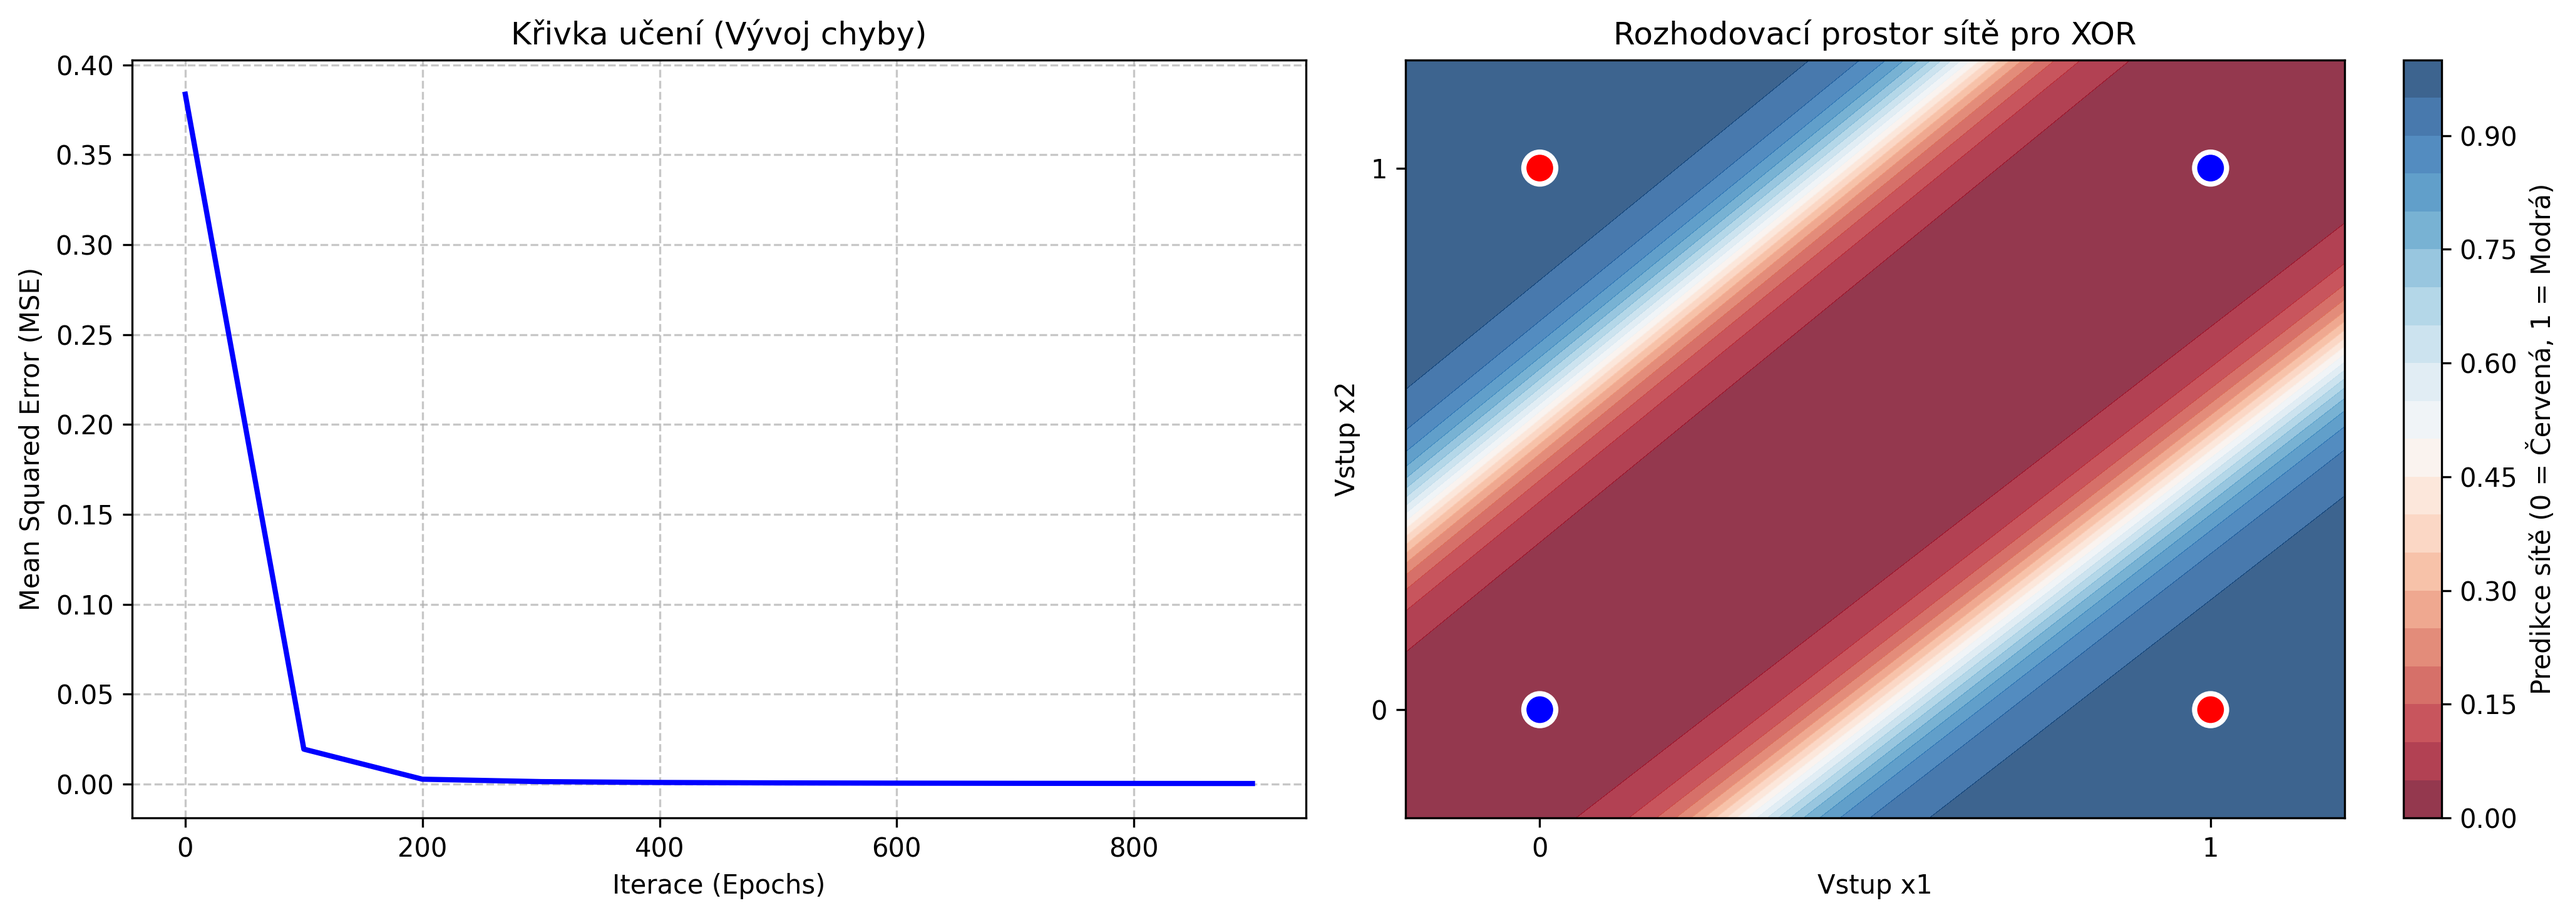
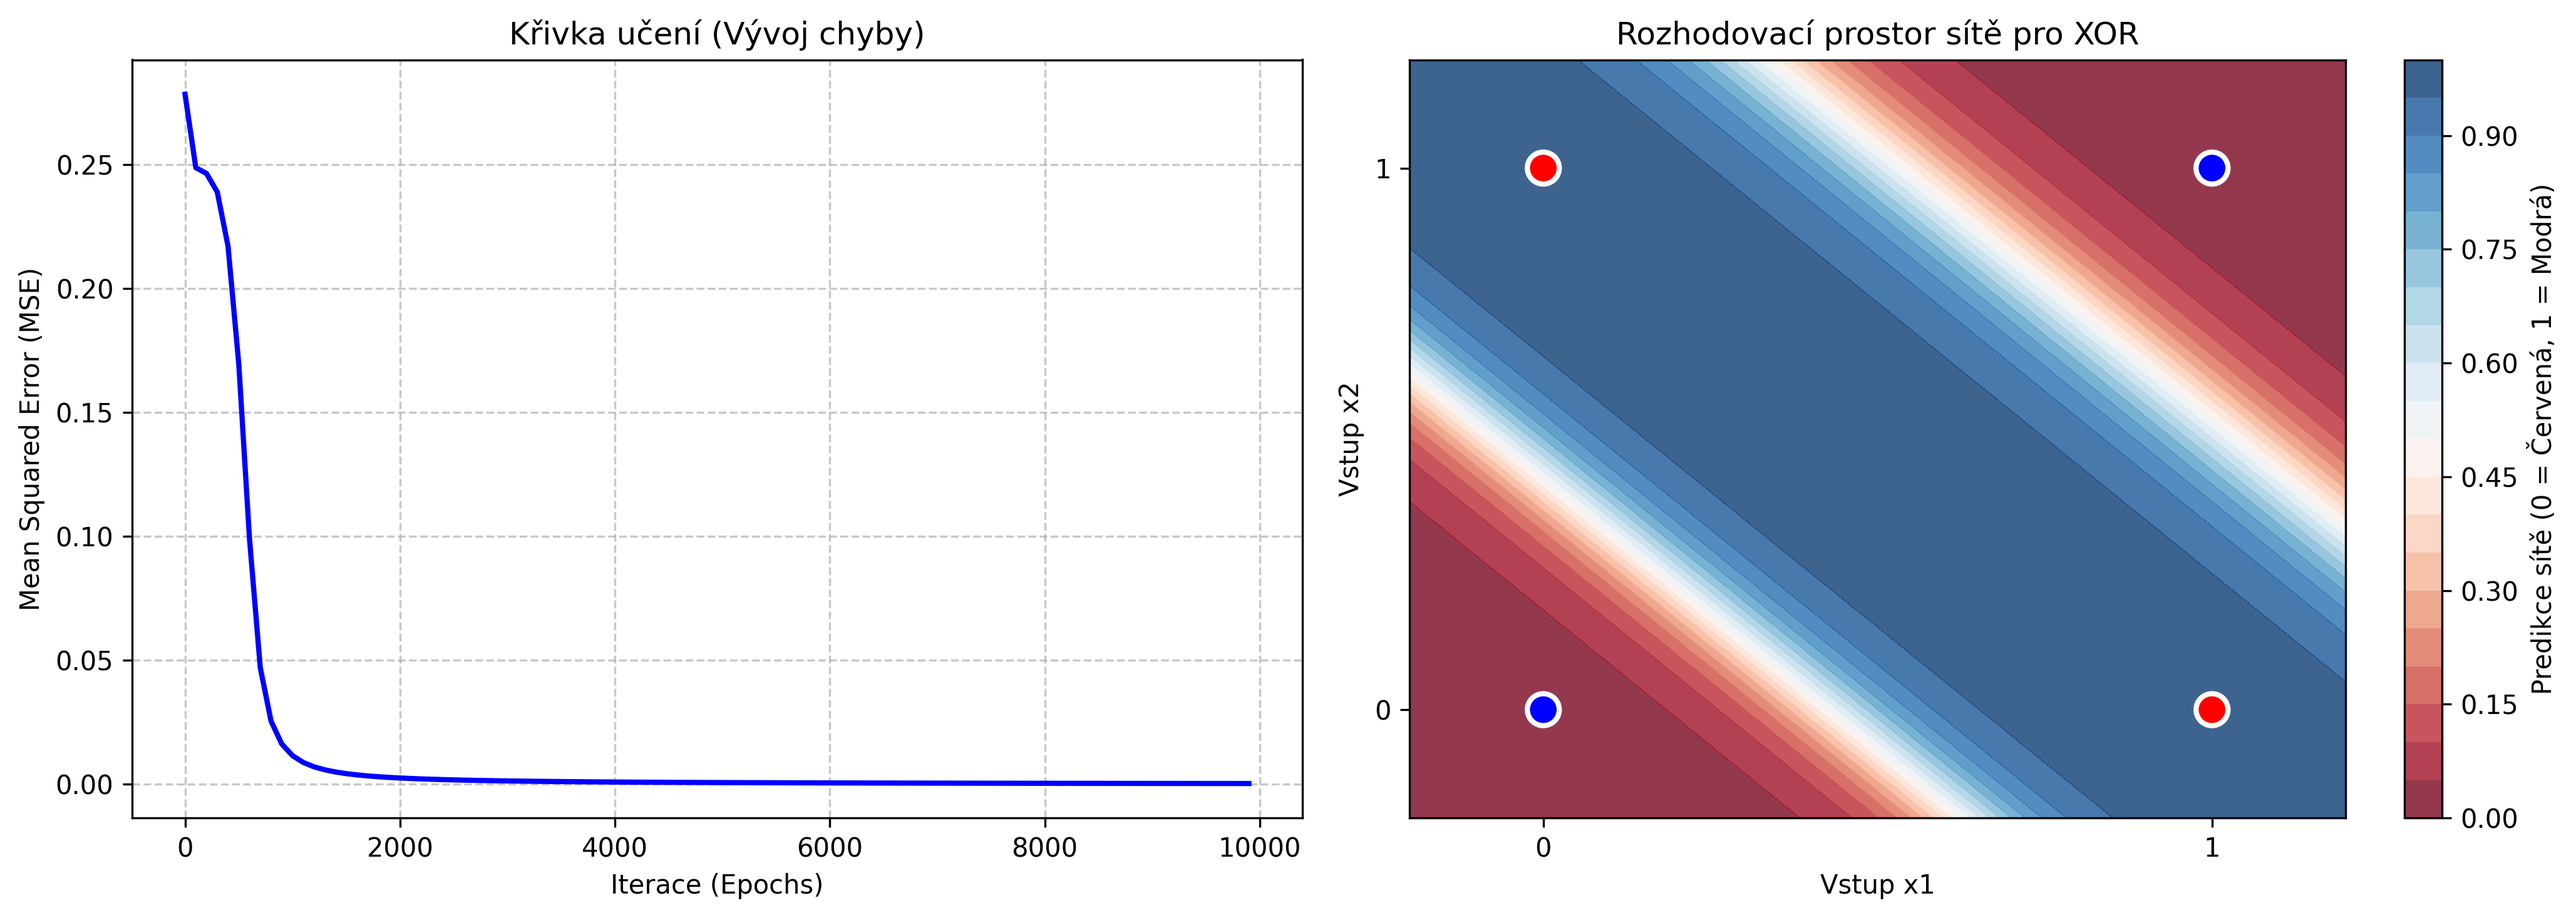
Refactor weight update logic in Perceptron class for improved clarity and efficiency

diff --git a/src/exec01/exec01.py b/src/exec01/exec01.py
@@ -31,11 +31,12 @@ class Perceptron:
             predicted_all = True
             for xi, target in zip(X, y):
                 prediction = self.predict(xi)                       # udelame predikci pro vzorek
+                update = self.l_r * (target - prediction)  # vypocet aktualizace vah
+                self.weights[1:] += update * xi  # Aktualizace vah pro vstupni vektory
+                self.weights[0] += update  # Aktualizace vah pro bias
                 if prediction != target:                            # pokud se predikce neshoduje s targetem, musime aktualizovat vektory vah
                     predicted_all = False
-                    update = self.l_r * (target - prediction)       # vypocet aktualizace vah
-                    self.weights[1:] += update * xi                 # Aktualizace vah pro vstupni vektory
-                    self.weights[0] += update                       # Aktualizace vah pro bias
+
 
             if predicted_all:
                 break

diff --git a/src/exec02/exec02.py b/src/exec02/exec02.py
@@ -44,7 +44,7 @@ class XORNetwork:
             # Vypocet celkove chyby
             error = targets - out_O
 
-            if i % 1000 == 0:
+            if i % 100 == 0:
                 mse = np.mean(error ** 2)
                 loss_history.append(mse)
 

diff --git a/results/exec02/printed_result.md b/results/exec02/printed_result.md
@@ -2,31 +2,31 @@
 
 | Vrstva / Neuron | Váhy / Bias |
 | :--- | :--- |
-| `neuron_hidden1.weights` | [0.012174, 1.704211] |
-| `neuron_hidden2.weights` | [-1.182833, -0.482396] |
-| `neuron_output.weights` | [0.574572, 1.020012] |
-| `neuron_hidden1.bias` | -0.466490 |
-| `neuron_hidden2.bias` | -0.562764 |
-| `neuron_output.bias` | 1.284588 |
+| `neuron_hidden1.weights` | [0.792491, 0.464214] |
+| `neuron_hidden2.weights` | [0.739202, 0.563267] |
+| `neuron_output.weights` | [-0.066850, -0.353135] |
+| `neuron_hidden1.bias` | 0.351069 |
+| `neuron_hidden2.bias` | -0.764115 |
+| `neuron_output.bias` | -0.483163 |
 
 **2. Váhy a bias po trénování**
 
 | Vrstva / Neuron | Váhy / Bias |
 | :--- | :--- |
-| `neuron_hidden1.weights` | [-5.825349, 6.063918] |
-| `neuron_hidden2.weights` | [-6.078899, 6.019559] |
-| `neuron_output.weights` | [-9.272610, 9.581321] |
-| `neuron_hidden1.bias` | 2.911744 |
-| `neuron_hidden2.bias` | -3.284761 |
-| `neuron_output.bias` | 4.394212 |
+| `neuron_hidden1.weights` | [6.333507, 6.331653] |
+| `neuron_hidden2.weights` | [4.717850, 4.717321] |
+| `neuron_output.weights` | [9.617683, -10.218901] |
+| `neuron_hidden1.bias` | -2.810035 |
+| `neuron_hidden2.bias` | -7.238531 |
+| `neuron_output.bias` | -4.485130 |
 
 **3. Výsledky testování**
 
 | Odhad sítě (Guess) | Očekávaný výstup | Shoduje se? |
 | :--- | :---: | :---: |
-| `0.0170519824` | **0** | True |
-| `0.9840167995` | **1** | True |
-| `0.9804996937` | **1** | True |
-| `0.0152040544` | **0** | True |
+| `0.0189590575` | **0** | True |
+| `0.9836390862` | **1** | True |
+| `0.9836410930` | **1** | True |
+| `0.0168829279` | **0** | True |
 
 Celková úspěšnost: **100.0 %**
